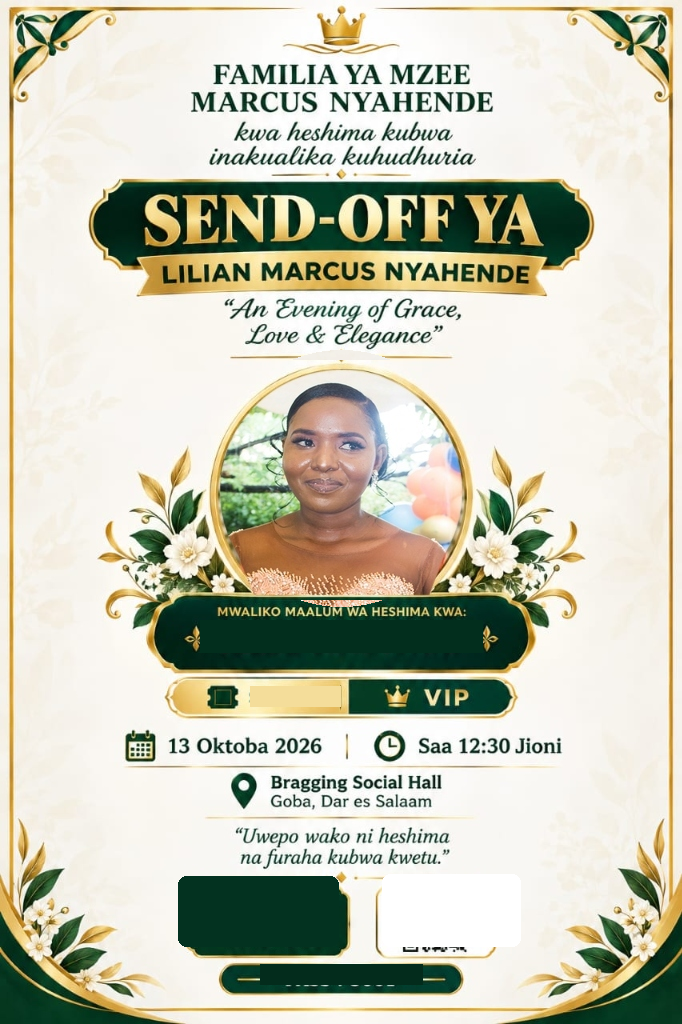
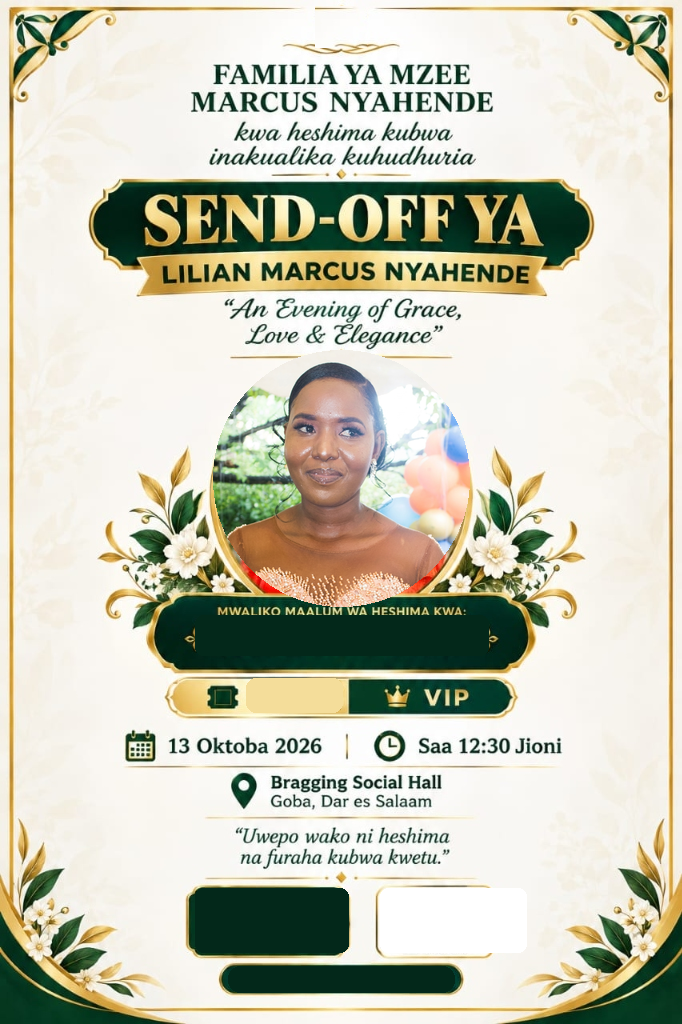
feat: make dynamic card with clean contact and pass code layout, remove redundant cards and clean scratch

diff --git a/public/invite.html b/public/invite.html
@@ -140,25 +140,9 @@
       <!-- Card Content Container -->
       <div class="royal-card-body">
 
-        <!-- 1. Header: Royal Crest Emblem, Family Name, Cursive Invitation, Grand Title -->
+        <!-- 1. Header: Family Name, Cursive Invitation, Grand Title -->
         <header class="royal-card-header">
           
-          <!-- Compact Royal Monogram Crest -->
-          <div class="royal-crest-wrap">
-            <svg class="royal-crest-svg" viewBox="0 0 100 65" fill="none" xmlns="http://www.w3.org/2000/svg">
-              <!-- Crown Jewels -->
-              <path d="M32 26 L38 12 L50 20 L62 12 L68 26 Z" fill="url(#cornerGold)" stroke="#ffd700" stroke-width="1"/>
-              <circle cx="50" cy="9" r="3.2" fill="#ffffff" filter="drop-shadow(0 0 5px #ffd700)"/>
-              <circle cx="38" cy="11" r="2.2" fill="#ffffff"/>
-              <circle cx="62" cy="11" r="2.2" fill="#ffffff"/>
-              <rect x="30" y="26" width="40" height="4.5" rx="1.5" fill="url(#cornerGold)" stroke="#b8860b" stroke-width="0.8"/>
-              <!-- Laurel Wreaths -->
-              <path d="M22 36 C18 48 30 60 50 62 C70 60 82 48 78 36" stroke="url(#cornerGold)" stroke-width="2" stroke-linecap="round" fill="none"/>
-              <!-- Center Initial Monogram -->
-              <text x="50" y="50" font-family="'Cinzel Decorative', 'Cinzel', serif" font-size="18" font-weight="900" fill="url(#cornerGold)" text-anchor="middle" filter="drop-shadow(0 1px 3px rgba(0,0,0,0.8))">L</text>
-            </svg>
-          </div>
-
           <!-- Family Name (Heraldic Small Caps) -->
           <div class="royal-family-sub" id="card-family-name">FAMILIA YA MZEE MARCUS NYAHENDE</div>
 
@@ -246,7 +230,7 @@
         <!-- Security Gate Pass & QR Code (Compact Horizontal Ticket) -->
         <div class="royal-bottom-grid">
           
-          <!-- Left: Gate Pass Security Credentials -->
+          <!-- Left: Gate Pass Security Credentials & Mawasiliano -->
           <div class="royal-bottom-left">
             <div class="royal-pass-code-box">
               <div class="pass-security-header">
@@ -257,8 +241,10 @@
                 <span class="royal-code-digits" id="guest-code-digits">4829</span>
                 <span class="royal-guest-num" id="guest-num-tag">• Mgeni #1</span>
               </div>
-              <div class="pass-security-note">
-                Onyesha getini kwa walinzi.
+              <div class="pass-contact-footer">
+                <span class="contact-icon">📞</span>
+                <span class="contact-lbl">Mawasiliano:</span>
+                <span class="contact-val" id="card-bottom-contact">0713 980 004</span>
               </div>
             </div>
           </div>

diff --git a/public/css/card.css b/public/css/card.css
@@ -660,6 +660,38 @@ body.royal-invite-body {
   margin-top: 3px;
 }
 
+.pass-contact-footer {
+  margin-top: 5px;
+  padding-top: 4px;
+  border-top: 1px dashed rgba(212, 175, 55, 0.35);
+  display: flex;
+  align-items: center;
+  gap: 5px;
+  font-size: 0.76rem;
+  color: var(--royal-gold-bright);
+}
+
+.pass-contact-footer .contact-icon {
+  font-size: 0.8rem;
+}
+
+.pass-contact-footer .contact-lbl {
+  font-family: 'Montserrat', var(--font-sans);
+  font-size: 0.65rem;
+  font-weight: 700;
+  text-transform: uppercase;
+  color: #a7f3d0;
+  letter-spacing: 0.4px;
+}
+
+.pass-contact-footer .contact-val {
+  font-family: 'Montserrat', var(--font-sans);
+  font-weight: 800;
+  font-size: 0.82rem;
+  color: #ffffff;
+  letter-spacing: 0.5px;
+}
+
 /* Right: Gold-Framed QR Pass Card */
 .royal-qr-card {
   background: #ffffff;

diff --git a/public/js/card.js b/public/js/card.js
@@ -137,6 +137,11 @@ function renderRoyalCard(data) {
     contactEl.textContent = `Mawasiliano: ${contact}`;
   }
 
+  const bottomContactEl = document.getElementById('card-bottom-contact');
+  if (bottomContactEl) {
+    bottomContactEl.textContent = event.contactPhone || '0713 980 004';
+  }
+
   // 8. Dress Code
   const dressCodeEl = document.getElementById('card-dress-code');
   if (dressCodeEl) {

diff --git a/services/build_master_template.py b/services/build_master_template.py
@@ -7,61 +7,48 @@ ORIG_PATH = 'C:/Users/mary/.gemini/antigravity-ide/brain/da022a77-ec18-4588-8e0e
 LILIAN_PORTRAIT = os.path.join(BASE_DIR, 'public', 'images', 'lilian_portrait_no_mic.jpg')
 TEMPLATE_OUTPUT = os.path.join(BASE_DIR, 'public', 'images', 'card_template_dynamic.png')
 
-# 1. Load original high-res image
-orig = Image.open(ORIG_PATH).convert('RGBA')
+def build_master_template():
+    if not os.path.exists(ORIG_PATH):
+        print(f"Original source image not found at {ORIG_PATH}, skipping template regeneration.")
+        return
 
-# 2. Prepare Lilian's retouched portrait (no mic)
-lilian = Image.open(LILIAN_PORTRAIT).convert('RGBA')
-cameo_w, cameo_h = 264, 264
-lilian_resized = lilian.resize((cameo_w, cameo_h), Image.Resampling.LANCZOS)
-mask = Image.new('L', (cameo_w, cameo_h), 0)
-draw_mask = ImageDraw.Draw(mask)
-draw_mask.ellipse((4, 4, cameo_w - 4, cameo_h - 4), fill=255)
+    orig = Image.open(ORIG_PATH).convert('RGBA')
 
-# Cameo center is at (341, 478)
-orig.paste(lilian_resized, (341 - cameo_w // 2, 478 - cameo_h // 2), mask)
+    # 1. Seamlessly erase top crown
+    crown_w = 52
+    crown_h = 42
+    left_sample = orig.crop((315 - crown_w, 6, 315, 6 + crown_h))
+    orig.paste(left_sample, (315, 6))
 
-# 3. Paste the pristine original floral wreath & gold cameo border on top
-official = Image.open(os.path.join(BASE_DIR, 'public', 'images', 'card_lilian_official.jpg')).convert('RGBA')
-wreath = official.crop((120, 360, 562, 600))
-orig.paste(wreath, (120, 360), wreath)
+    # 2. Put Lilian's portrait in cameo
+    if os.path.exists(LILIAN_PORTRAIT):
+        lilian = Image.open(LILIAN_PORTRAIT).convert('RGBA')
+        cameo_w, cameo_h = 264, 264
+        lilian_resized = lilian.resize((cameo_w, cameo_h), Image.Resampling.LANCZOS)
+        mask = Image.new('L', (cameo_w, cameo_h), 0)
+        draw_mask = ImageDraw.Draw(mask)
+        draw_mask.ellipse((4, 4, cameo_w - 4, cameo_h - 4), fill=255)
+        orig.paste(lilian_resized, (341 - cameo_w // 2, 478 - cameo_h // 2), mask)
 
-d = ImageDraw.Draw(orig)
+    d = ImageDraw.Draw(orig)
 
-# 4. Clean Guest Name Banner (inner area only, leaving ornate gold borders and corners intact)
-# Inner banner area is (195, 615, 488, 655)
-d.rounded_rectangle((195, 615, 488, 655), radius=10, fill=(3, 44, 28, 255))
+    # 3. Clean Name Ribbon inside: (195, 615, 488, 655)
+    d.rounded_rectangle((195, 615, 488, 655), radius=8, fill=(3, 40, 26, 255))
 
-# 5. Clean Seat Pill (SINGLE / DOUBLE area: 242, 680, 344, 712)
-d.rounded_rectangle((242, 680, 344, 712), radius=12, fill=(244, 221, 154, 255))
+    # 4. Clean Seat Pill inside: (246, 678, 342, 712)
+    d.rounded_rectangle((246, 678, 342, 712), radius=10, fill=(244, 221, 154, 255))
 
-# 6. Prepare Left Emerald Box (cleanly erase "KODI 3001" & key icon, keeping the gold ornamental border)
-# Inside the left box: inner green is x in [188, 344], y in [885, 948]
-# Sample the emerald background at (195, 910)
-d.rounded_rectangle((188, 882, 344, 948), radius=6, fill=(3, 50, 32, 255))
+    # 5. Clean ENTIRE Left Box inner green area: (195, 888, 348, 952)
+    d.rounded_rectangle((195, 888, 348, 952), radius=8, fill=(3, 40, 26, 255))
 
-# Draw the static contact header & phone number:
-# MAWASILIANO
-# 0713 980 004
-font_lbl = ImageFont.truetype(r'C:\Windows\Fonts\georgiab.ttf', 11)
-font_phone = ImageFont.truetype(r'C:\Windows\Fonts\georgiab.ttf', 16)
-cx_box = (188 + 344) // 2
+    # 6. Clean ENTIRE Right Box inner white area: (380, 888, 526, 952)
+    d.rounded_rectangle((380, 888, 526, 952), radius=8, fill=(255, 255, 255, 255))
 
-lbl = "MAWASILIANO"
-num = "0713 980 004"
-bbl = d.textbbox((0, 0), lbl, font=font_lbl)
-bbn = d.textbbox((0, 0), num, font=font_phone)
-d.text((cx_box - (bbl[2]-bbl[0])//2, 888), lbl, font=font_lbl, fill=(245, 218, 145, 255))
-d.text((cx_box - (bbn[2]-bbn[0])//2, 912), num, font=font_phone, fill=(255, 255, 255, 255))
+    # 7. Clean ENTIRE Bottom Pill inner green area: (228, 966, 454, 992)
+    d.rounded_rectangle((228, 966, 454, 992), radius=12, fill=(3, 40, 26, 255))
 
-# 7. Clean Right White Box (for QR code, keeping the golden outer border)
-# Inside area: (382, 874, 524, 946)
-d.rounded_rectangle((382, 874, 524, 946), radius=8, fill=(255, 255, 255, 255))
+    orig.save(TEMPLATE_OUTPUT, 'PNG')
+    print(f"Master dynamic template saved to {TEMPLATE_OUTPUT}")
 
-# 8. Clean Bottom PASS Pill (erase old pass code, keeping emerald pill & gold accents)
-# Center area: (230, 960, 452, 988)
-d.rounded_rectangle((230, 960, 452, 988), radius=12, fill=(3, 44, 28, 255))
-
-# Save the master dynamic template
-orig.save(TEMPLATE_OUTPUT, 'PNG')
-print(f"Master dynamic template saved to {TEMPLATE_OUTPUT}")
+if __name__ == '__main__':
+    build_master_template()

diff --git a/services/generate_card.py b/services/generate_card.py
@@ -21,7 +21,6 @@ def get_guest_data(guest_id_or_code):
     guests = data.get('guests', [])
     search_term = str(guest_id_or_code).strip().lower()
 
-    # Match by ID, Code, or Name
     guest = None
     for g in guests:
         gid = str(g.get('id', '')).lower()
@@ -55,10 +54,10 @@ def render_guest_card(guest_id_or_code, output_path=None):
     cx = 341
     d = ImageDraw.Draw(card)
 
-    # 1. Guest Name (Clean, perfectly centered in emerald ribbon)
+    # 1. Guest Name (Centered in emerald ribbon)
     name_clean = name.upper()
-    if len(name_clean) <= 15:
-        fs = 23
+    if len(name_clean) <= 16:
+        fs = 22
     elif len(name_clean) <= 22:
         fs = 19
     elif len(name_clean) <= 28:
@@ -70,7 +69,7 @@ def render_guest_card(guest_id_or_code, output_path=None):
     bb_n = d.textbbox((0, 0), name_clean, font=font_name)
     nw = bb_n[2] - bb_n[0]
     nh = bb_n[3] - bb_n[1]
-    d.text((cx - nw // 2, 636 - nh // 2), name_clean, font=font_name, fill=(255, 255, 255, 255))
+    d.text((cx - nw // 2, 635 - nh // 2), name_clean, font=font_name, fill=(255, 255, 255, 255))
 
     # 2. Seat Badge: SINGLE / DOUBLE
     seat_txt = 'DOUBLE' if seats >= 2 else 'SINGLE'
@@ -78,34 +77,37 @@ def render_guest_card(guest_id_or_code, output_path=None):
     bb_s = d.textbbox((0, 0), seat_txt, font=font_seat)
     sw = bb_s[2] - bb_s[0]
     sh = bb_s[3] - bb_s[1]
-    d.text((295 - sw // 2, 696 - sh // 2), seat_txt, font=font_seat, fill=(5, 55, 35, 255))
+    d.text((295 - sw // 2, 695 - sh // 2), seat_txt, font=font_seat, fill=(5, 55, 35, 255))
 
-    # 3. Left Contact Box (MAWASILIANO / 0713 980 004)
-    font_lbl = ImageFont.truetype(r'C:\Windows\Fonts\georgiab.ttf', 11)
-    font_phone = ImageFont.truetype(r'C:\Windows\Fonts\georgiab.ttf', 16)
-    cx_box = (178 + 338) // 2
+    # 3. Left Box: MAWASILIANO & 0713 980 004
+    cx_left = (195 + 348) // 2
+    font_contact_lbl = ImageFont.truetype(r'C:\Windows\Fonts\georgiab.ttf', 12)
+    font_contact_num = ImageFont.truetype(r'C:\Windows\Fonts\georgiab.ttf', 16)
 
-    lbl = "MAWASILIANO"
-    num = "0713 980 004"
-    bbl = d.textbbox((0, 0), lbl, font=font_lbl)
-    bbn = d.textbbox((0, 0), num, font=font_phone)
-    d.text((cx_box - (bbl[2]-bbl[0])//2, 887), lbl, font=font_lbl, fill=(245, 218, 145, 255))
-    d.text((cx_box - (bbn[2]-bbn[0])//2, 911), num, font=font_phone, fill=(255, 255, 255, 255))
+    lbl_contact = "MAWASILIANO"
+    num_contact = "0713 980 004"
 
-    # 4. Right QR Code (High-Contrast, Crisp for Gate Scanner)
+    bb_cl = d.textbbox((0, 0), lbl_contact, font=font_contact_lbl)
+    d.text((cx_left - (bb_cl[2]-bb_cl[0]) // 2, 896), lbl_contact, font=font_contact_lbl, fill=(245, 218, 145, 255))
+
+    bb_cn = d.textbbox((0, 0), num_contact, font=font_contact_num)
+    d.text((cx_left - (bb_cn[2]-bb_cn[0]) // 2, 919), num_contact, font=font_contact_num, fill=(255, 255, 255, 255))
+
+    # 4. Right Box: High-Contrast Crisp QR Code
     qr = qrcode.QRCode(
         version=1,
-        error_correction=qrcode.constants.ERROR_CORRECT_H,
+        error_correction=qrcode.constants.ERROR_CORRECT_M,
         box_size=8,
-        border=1,
+        border=0,
     )
     qr.add_data(code)
     qr.make(fit=True)
     qr_img = qr.make_image(fill_color='#021910', back_color='white').convert('RGBA')
-    qr_resized = qr_img.resize((70, 70), Image.Resampling.NEAREST)
+    qr_resized = qr_img.resize((56, 56), Image.Resampling.NEAREST)
 
-    # Paste in right box (center = 451, 910)
-    card.paste(qr_resized, (451 - 35, 910 - 35), qr_resized)
+    cx_right = (380 + 526) // 2
+    cy_right = (888 + 952) // 2
+    card.paste(qr_resized, (cx_right - 28, cy_right - 28))
 
     # 5. Bottom PASS Pill: ── PASS : {code} ──
     pass_txt = f'──  PASS : {code}  ──'
@@ -113,13 +115,14 @@ def render_guest_card(guest_id_or_code, output_path=None):
     bb_p = d.textbbox((0, 0), pass_txt, font=font_pass)
     pw = bb_p[2] - bb_p[0]
     ph = bb_p[3] - bb_p[1]
-    d.text((cx - pw // 2, 974 - ph // 2), pass_txt, font=font_pass, fill=(250, 225, 156, 255))
+    d.text((cx - pw // 2, 979 - ph // 2), pass_txt, font=font_pass, fill=(250, 225, 156, 255))
 
     # Save output
     if not output_path:
         output_path = os.path.join(CARDS_DIR, f'card_{guest.get("id")}.jpg')
 
     card.convert('RGB').save(output_path, quality=98)
+    print(f"Generated card at {output_path}")
     return output_path
 
 if __name__ == '__main__':
